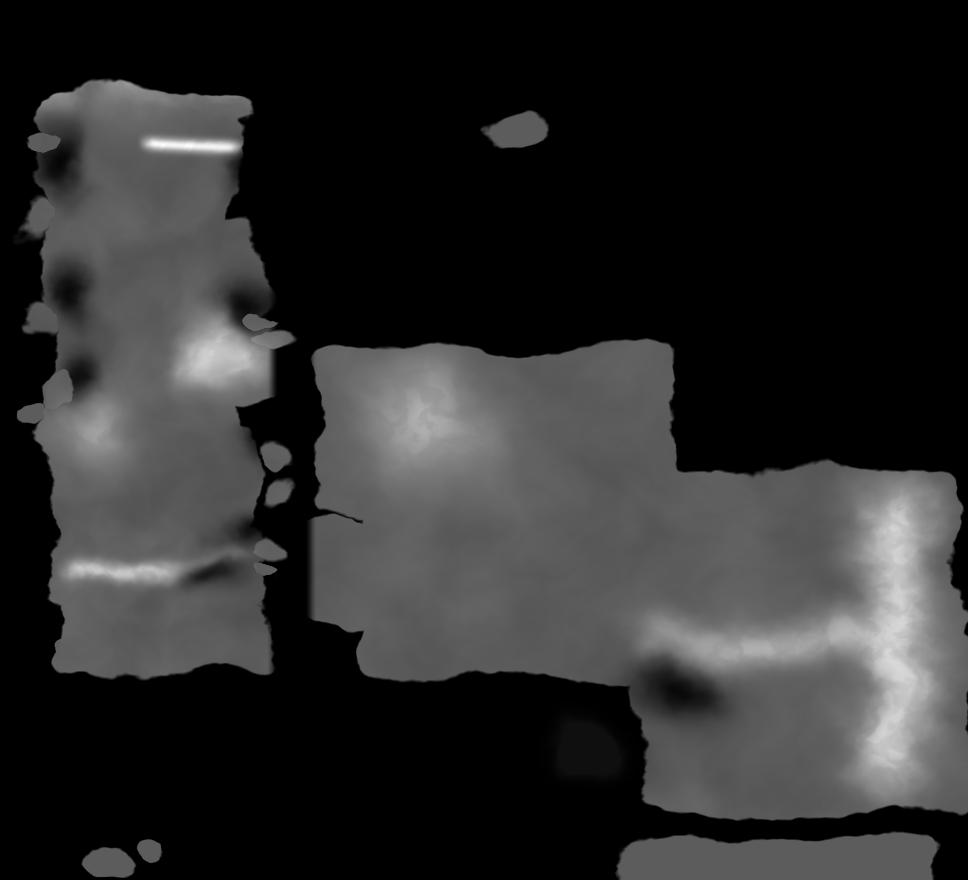
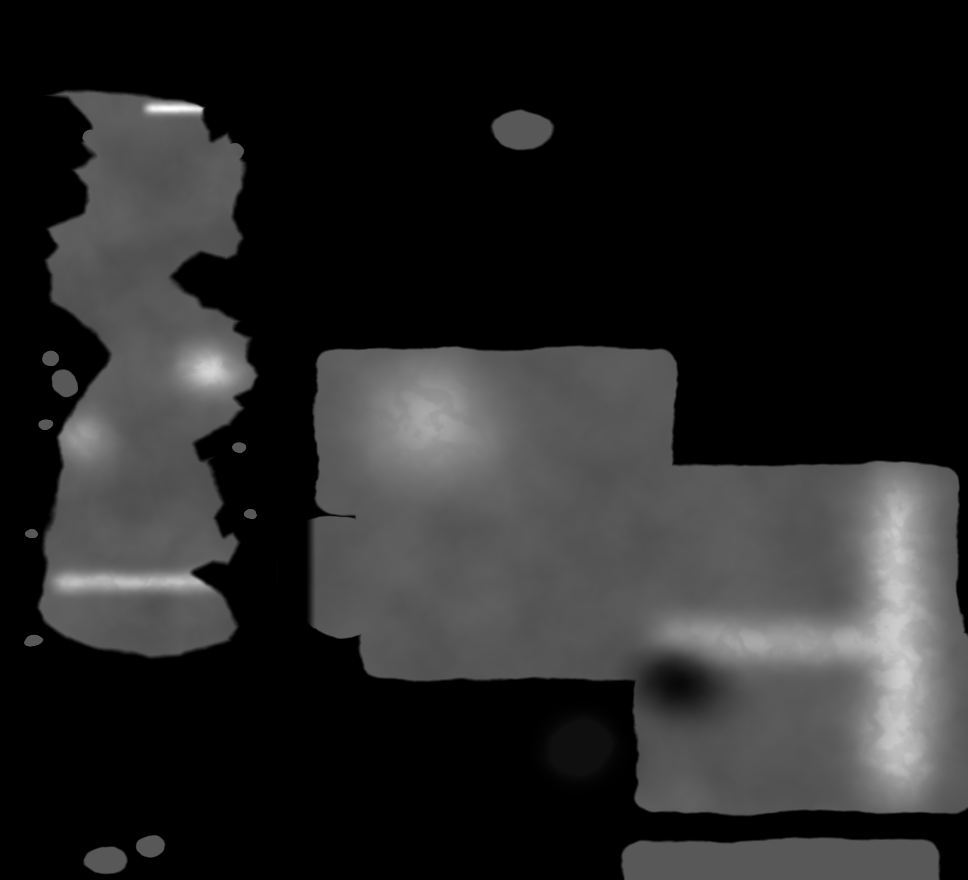
Trace the real Westeros coastline instead of approximating it
Westeros was a stack of soft boxes with bays carved in — recognisable, but
not faithful. Its outline is now an explicit 91-vertex POLYGON traced from
the canonical map, stored in that map's own pixel space (1344x1990) so the
numbers can be checked against the image directly, and rasterised by a
point-in-polygon + distance-to-edge test that gives a soft shoreline.

That yields the true silhouette: the Lands of Always Winter, the Bay of Ice,
Sea Dragon Point, the Stony Shore, Flint's Finger and Blazewater Bay, Cape
Kraken, Ironman's Bay, the pinched Neck, White Harbor and Widow's Watch, the
Bay of Seals and Grey Cliffs, the Bite, the Fingers, the Bay of Crabs,
Crackclaw Point, Blackwater Bay, Massey's Hook, Shipbreaker Bay, the Sea of
Dorne and the Dornish south coast.

Every Westerosi marker, the Kingsroad, and the region labels are re-placed
from the SAME canonical pixel coordinates through one shared transform, so
the places and the silhouette agree by construction; all 18 were verified to
land above sea level against the generated heightmap. Offshore isles (Pyke
and Great Wyk, Bear Island, Skagos, the Three Sisters, Dragonstone, Tarth,
Fair Isle, the Shield Islands, the Arbor) are placed from the same
coordinates. The wights' area now keys off the traced Wall latitude.

Essos, for which no comparable outline was traced, stays a shaped field.

Claude-Session: https://claude.ai/code/session_012xHrYLbmC7QAWTN7iQqSjY

diff --git a/src/stories/game-of-thrones.ts b/src/stories/game-of-thrones.ts
@@ -9,7 +9,10 @@ import westerosHeight from '../assets/westeros-height.png'
  * George R. R. Martin (and HBO for the series). This is user-authored,
  * paraphrased data — a fan-project use, not an official work.
  *
- * The map is a SHAPED heightmap (see scripts/build-westeros.mjs) laid out from
+ * Westeros's coastline is TRACED from the canonical map (see
+ * scripts/build-westeros.mjs), and every Westerosi marker below is placed from
+ * the same canonical pixel coordinates, so the silhouette and the places agree.
+ * The map is laid out from
  * the canonical world map: WESTEROS is only the western fifth — a long
  * north-south continent, the Wall across its top, the North above the pinched
  * Neck, then the Riverlands and Vale, the Westerlands, King's Landing on
@@ -43,7 +46,7 @@ export const gameOfThrones: Story = {
     dragons: 3,
     fish: 4,
     wights: 14,
-    wightArea: { x0: -0.95, x1: -0.45, z0: -0.98, z1: -0.7 },
+    wightArea: { x0: -0.93, x1: -0.55, z0: -0.81, z1: -0.774 },
   },
   terrain: {
     seed: 'westeros',
@@ -71,7 +74,7 @@ export const gameOfThrones: Story = {
       id: 'always-winter',
       name: 'The Lands of Always Winter',
       kind: 'danger',
-      at: { x: -0.62, z: -0.8 },
+      at: { x: -0.84, z: -0.7887 },
       description:
         'The frozen wastes north of the Wall, where the Free Folk range among ' +
         'the Frostfangs and the haunted forest — and where the Others and their ' +
@@ -81,7 +84,7 @@ export const gameOfThrones: Story = {
       id: 'castle-black',
       name: 'Castle Black — the Wall',
       kind: 'landmark',
-      at: { x: -0.562, z: -0.675 },
+      at: { x: -0.6299, z: -0.7542 },
       description:
         'Seven hundred feet of ice across the top of the world, held by the ' +
         'sworn brothers of the Night’s Watch. Castle Black guards the way ' +
@@ -91,7 +94,7 @@ export const gameOfThrones: Story = {
       id: 'winterfell',
       name: 'Winterfell',
       kind: 'capital',
-      at: { x: -0.574, z: -0.474 },
+      at: { x: -0.7074, z: -0.54 },
       description:
         'The ancient seat of House Stark, raised over hot springs so its walls ' +
         'stay warm in the deepest winter. Home of the direwolves — and where the ' +
@@ -101,7 +104,7 @@ export const gameOfThrones: Story = {
       id: 'dreadfort',
       name: 'The Dreadfort',
       kind: 'danger',
-      at: { x: -0.5, z: -0.5 },
+      at: { x: -0.6181, z: -0.5711 },
       description:
         'The Bolton seat east of Winterfell, whose flayed-man banner is no ' +
         'boast — a grim keep with a reputation to match.',
@@ -110,7 +113,7 @@ export const gameOfThrones: Story = {
       id: 'white-harbor',
       name: 'White Harbor',
       kind: 'port',
-      at: { x: -0.485, z: -0.338 },
+      at: { x: -0.631, z: -0.4039 },
       description:
         'The only true city of the North, at the mouth of the White Knife — ' +
         'House Manderly’s port, and the North’s window on the sea.',
@@ -119,7 +122,7 @@ export const gameOfThrones: Story = {
       id: 'moat-cailin',
       name: 'Moat Cailin — the Neck',
       kind: 'ruin',
-      at: { x: -0.562, z: -0.299 },
+      at: { x: -0.6983, z: -0.3603 },
       description:
         'Ruined towers commanding the causeway through the bogs of the Neck — ' +
         'the narrow throat of the continent, and the gate no southern army has ' +
@@ -130,7 +133,7 @@ export const gameOfThrones: Story = {
       id: 'the-twins',
       name: 'The Twins',
       kind: 'battle',
-      at: { x: -0.598, z: -0.221 },
+      at: { x: -0.732, z: -0.207 },
       description:
         'House Frey’s twin castles astride the Green Fork, and the only crossing ' +
         'for a hundred leagues. Here a wedding becomes the Red Wedding, and the ' +
@@ -140,7 +143,7 @@ export const gameOfThrones: Story = {
       id: 'riverrun',
       name: 'Riverrun',
       kind: 'city',
-      at: { x: -0.609, z: -0.182 },
+      at: { x: -0.7464, z: -0.0923 },
       description:
         'The Tully stronghold in the fork of two rivers, able to flood its moat ' +
         'and become an island — the seat of Catelyn Stark’s house.',
@@ -149,7 +152,7 @@ export const gameOfThrones: Story = {
       id: 'harrenhal',
       name: 'Harrenhal',
       kind: 'ruin',
-      at: { x: -0.55, z: -0.06 },
+      at: { x: -0.6555, z: -0.0508 },
       description:
         'The vast, half-melted castle by the God’s Eye, its towers run to slag ' +
         'by dragonfire on the day of Aegon’s conquest. Every house to hold it ' +
@@ -159,7 +162,7 @@ export const gameOfThrones: Story = {
       id: 'the-eyrie',
       name: 'The Eyrie',
       kind: 'city',
-      at: { x: -0.515, z: -0.221 },
+      at: { x: -0.5877, z: -0.1461 },
       description:
         'House Arryn’s castle high in the Mountains of the Moon, reached only by ' +
         'a narrow mule track — and holding the sky cells, whose fourth wall is a ' +
@@ -169,7 +172,7 @@ export const gameOfThrones: Story = {
       id: 'pyke',
       name: 'Pyke — the Iron Islands',
       kind: 'port',
-      at: { x: -0.893, z: -0.11 },
+      at: { x: -0.8737, z: -0.1365 },
       description:
         'The Greyjoy seat on wave-battered stacks off the west coast, home of ' +
         'the ironborn who pay the iron price and answer to no green-land king.',
@@ -179,7 +182,7 @@ export const gameOfThrones: Story = {
       id: 'casterly-rock',
       name: 'Casterly Rock',
       kind: 'city',
-      at: { x: -0.799, z: 0.0 },
+      at: { x: -0.8737, z: 0.0024 },
       description:
         'The Lannisters’ gold-veined fortress carved down through a mountain ' +
         'above Lannisport — the wealth that pays for the wars of the realm.',
@@ -188,7 +191,7 @@ export const gameOfThrones: Story = {
       id: 'kings-landing',
       name: "King's Landing",
       kind: 'capital',
-      at: { x: -0.491, z: 0.091 },
+      at: { x: -0.6058, z: 0.0646 },
       description:
         'The capital on Blackwater Bay: the Red Keep, the Iron Throne, and a ' +
         'million souls in the stink and squalor below. Every road in the game of ' +
@@ -198,7 +201,7 @@ export const gameOfThrones: Story = {
       id: 'dragonstone',
       name: 'Dragonstone',
       kind: 'landmark',
-      at: { x: -0.444, z: 0.065 },
+      at: { x: -0.5085, z: 0.0211 },
       description:
         'The Targaryens’ ancestral island fortress in the Narrow Sea, carved with ' +
         'gargoyles and dragons — the first foothold of the conquest, and the seat ' +
@@ -208,7 +211,7 @@ export const gameOfThrones: Story = {
       id: 'storms-end',
       name: "Storm's End",
       kind: 'city',
-      at: { x: -0.47, z: 0.234 },
+      at: { x: -0.5444, z: 0.2235 },
       description:
         'The Baratheon fortress on the storm coast, whose vast curtain wall has ' +
         'never fallen to siege or tempest.',
@@ -217,7 +220,7 @@ export const gameOfThrones: Story = {
       id: 'highgarden',
       name: 'Highgarden',
       kind: 'city',
-      at: { x: -0.704, z: 0.234 },
+      at: { x: -0.8143, z: 0.2581 },
       description:
         'The Tyrell seat amid the orchards and fields of the Reach — the richest ' +
         'harvest in Westeros, and the food that feeds the capital.',
@@ -226,7 +229,7 @@ export const gameOfThrones: Story = {
       id: 'oldtown',
       name: 'Oldtown',
       kind: 'city',
-      at: { x: -0.834, z: 0.39 },
+      at: { x: -0.8817, z: 0.3548 },
       description:
         'The oldest city in Westeros, at the mouth of the Honeywine — the ' +
         'Citadel of the maesters, and the Hightower burning its beacon over the ' +
@@ -236,7 +239,7 @@ export const gameOfThrones: Story = {
       id: 'sunspear',
       name: 'Sunspear, Dorne',
       kind: 'city',
-      at: { x: -0.444, z: 0.39 },
+      at: { x: -0.5262, z: 0.4419 },
       description:
         'Beyond the Red Mountains, the Martells hold the hot deserts of Dorne — ' +
         'never conquered, only wed into the realm, and slow to forget a wrong.',
@@ -362,12 +365,12 @@ export const gameOfThrones: Story = {
         'The great road down the spine of Westeros, from Castle Black at the Wall ' +
         'through Winterfell and the Neck to King’s Landing.',
       points: [
-        { x: -0.562, z: -0.675 },
-        { x: -0.574, z: -0.474 },
-        { x: -0.562, z: -0.299 },
-        { x: -0.598, z: -0.221 },
-        { x: -0.55, z: -0.06 },
-        { x: -0.491, z: 0.091 },
+        { x: -0.6299, z: -0.7542 },
+        { x: -0.7074, z: -0.54 },
+        { x: -0.6983, z: -0.3603 },
+        { x: -0.732, z: -0.207 },
+        { x: -0.6555, z: -0.0508 },
+        { x: -0.6058, z: 0.0646 },
       ],
     },
     {
@@ -385,19 +388,22 @@ export const gameOfThrones: Story = {
         { x: 0.586, z: 0.857 },
         { x: 0.503, z: 0.623 },
         { x: 0.550, z: 0.519 },
-        { x: -0.444, z: 0.065 },
+        { x: -0.5085, z: 0.0211 },
       ],
     },
   ],
   regions: [
-    { id: 'beyond', name: 'The Lands of Always Winter', at: { x: -0.68, z: -0.86 }, scale: 0.7 },
-    { id: 'the-north', name: 'The North', at: { x: -0.75, z: -0.5 }, scale: 0.85 },
-    { id: 'riverlands', name: 'The Riverlands', at: { x: -0.66, z: -0.15 }, scale: 0.6 },
-    { id: 'the-vale', name: 'The Vale', at: { x: -0.52, z: -0.24 }, scale: 0.55 },
-    { id: 'westerlands', name: 'The Westerlands', at: { x: -0.85, z: -0.02 }, scale: 0.6 },
-    { id: 'the-reach', name: 'The Reach', at: { x: -0.75, z: 0.2 }, scale: 0.65 },
-    { id: 'dorne-region', name: 'Dorne', at: { x: -0.63, z: 0.42 }, scale: 0.7 },
-    { id: 'narrow-sea', name: 'The Narrow Sea', at: { x: -0.4, z: -0.05 }, scale: 0.6 },
+    // Westerosi labels sit over the traced continent, from the canonical map.
+    { id: 'beyond', name: 'The Lands of Always Winter', at: { x: -0.79, z: -0.80 }, scale: 0.55 },
+    { id: 'the-north', name: 'The North', at: { x: -0.72, z: -0.44 }, scale: 0.7 },
+    { id: 'riverlands', name: 'The Riverlands', at: { x: -0.73, z: -0.12 }, scale: 0.5 },
+    { id: 'the-vale', name: 'The Vale of Arryn', at: { x: -0.58, z: -0.19 }, scale: 0.5 },
+    { id: 'westerlands', name: 'The Westerlands', at: { x: -0.84, z: -0.04 }, scale: 0.5 },
+    { id: 'crownlands', name: 'The Crownlands', at: { x: -0.58, z: 0.03 }, scale: 0.45 },
+    { id: 'the-reach', name: 'The Reach', at: { x: -0.77, z: 0.20 }, scale: 0.55 },
+    { id: 'stormlands', name: 'The Stormlands', at: { x: -0.56, z: 0.17 }, scale: 0.45 },
+    { id: 'dorne-region', name: 'Dorne', at: { x: -0.67, z: 0.43 }, scale: 0.6 },
+    { id: 'narrow-sea', name: 'The Narrow Sea', at: { x: -0.41, z: -0.05 }, scale: 0.55 },
     { id: 'free-cities-region', name: 'The Free Cities', at: { x: -0.18, z: 0.2 }, scale: 0.7 },
     { id: 'dothraki', name: 'The Dothraki Sea', at: { x: 0.34, z: 0.2 }, scale: 0.9 },
     { id: 'slavers-bay', name: "Slaver's Bay", at: { x: 0.5, z: 0.62 }, scale: 0.7 },
